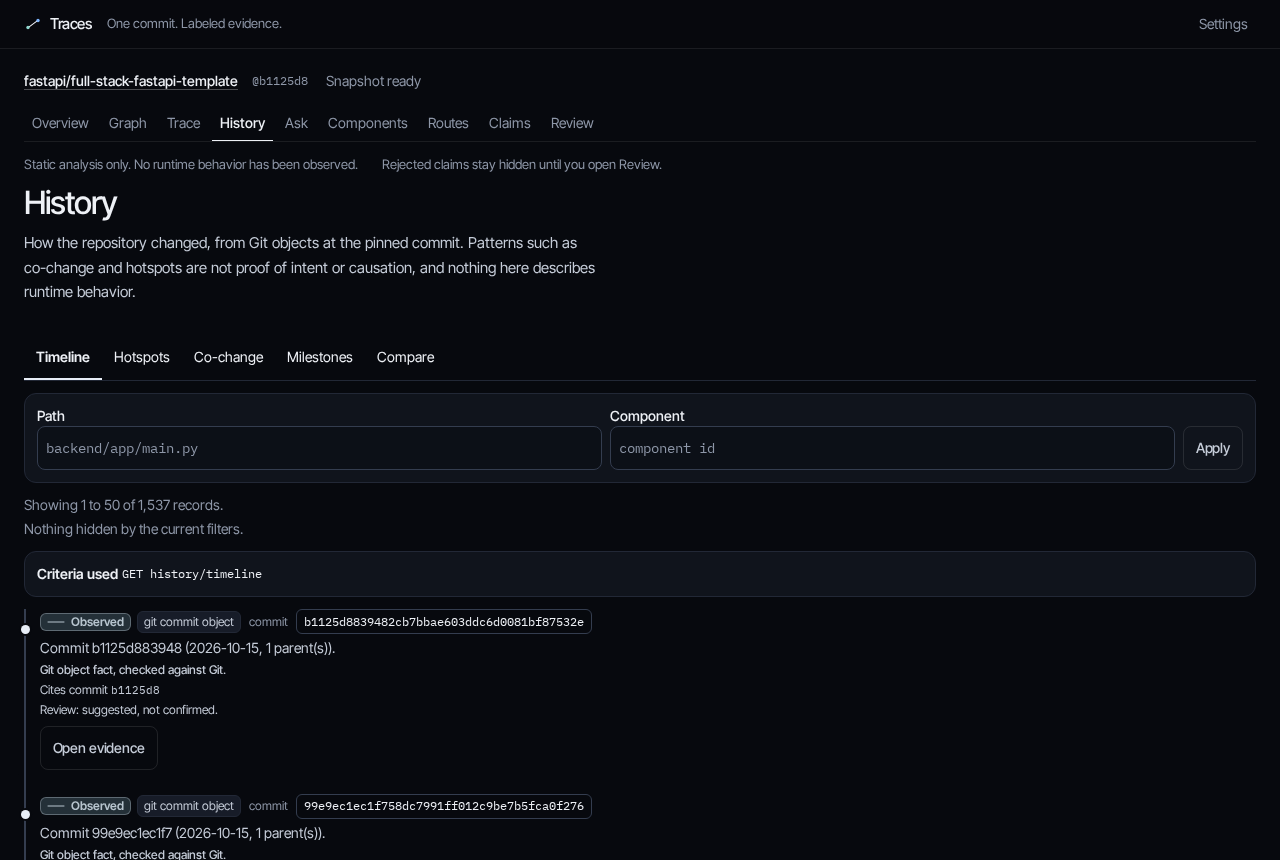
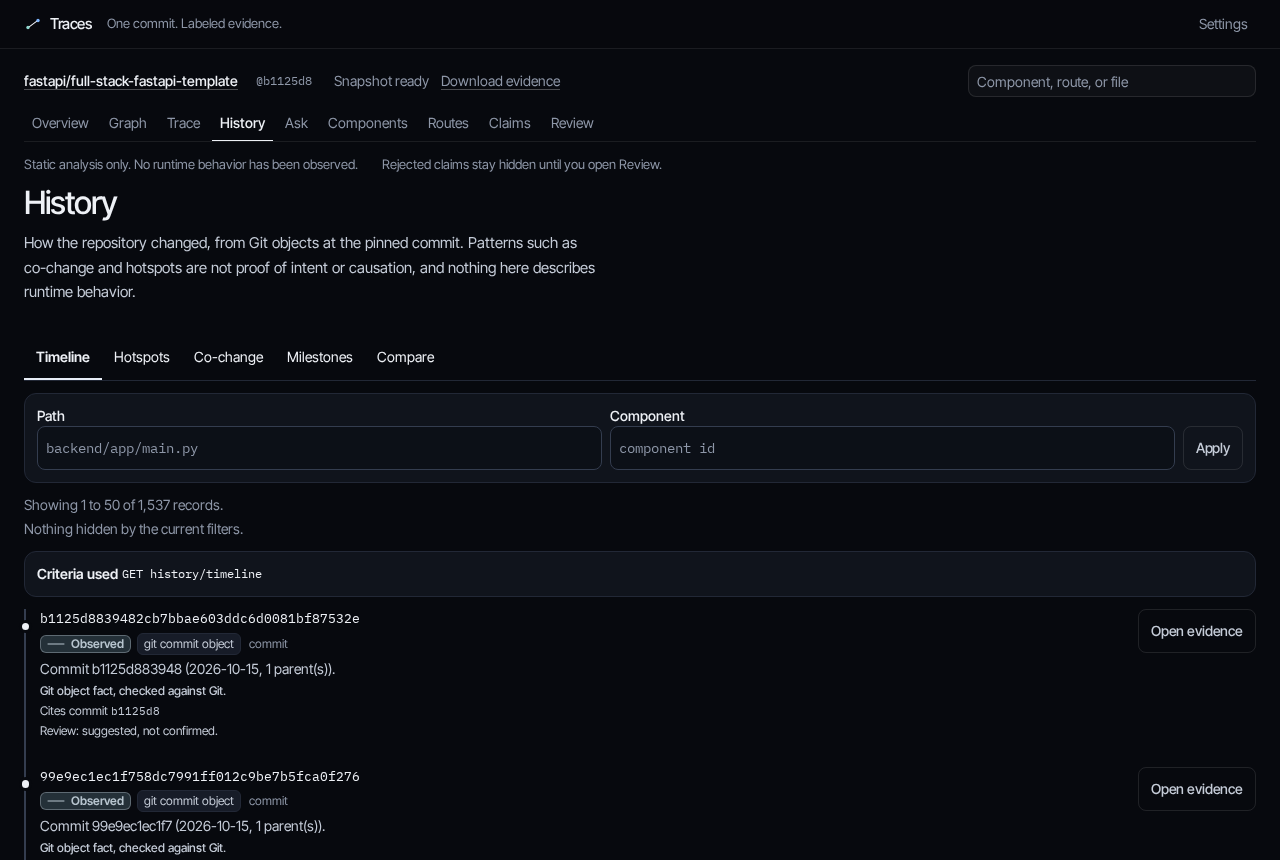
Open a trace from a recorded route, and read history as a spine.
The trace page lists stored routes before the symbol form. Choosing one follows that handler and does not fill missing steps. Timeline records sit on a line, and co-change shows how often two paths changed together.

diff --git a/web/src/features/trace/TracePage.tsx b/web/src/features/trace/TracePage.tsx
@@ -1,7 +1,7 @@
 import { useQuery } from "@tanstack/react-query";
 import { useId, useState, type FormEvent } from "react";
-import { useParams, useSearchParams } from "react-router-dom";
-import { api } from "../../api/client";
+import { Link, useParams, useSearchParams } from "react-router-dom";
+import { api, type RouteItem } from "../../api/client";
 import { useCapability } from "../../api/queries";
 import { snapshotBase } from "../../app/nav";
 import { Button, ErrorState, Loading, PageHeader } from "../../ui/States";
@@ -43,6 +43,7 @@ export function TracePage() {
         </p>
       ) : null}
       {from ? null : <UserFlow repoId={repoId} sha={sha} onEvidence={setClaim} />}
+      {from ? null : <RecordedStarts repoId={repoId} sha={sha} />}
       <form onSubmit={submit} className="mb-4 grid gap-3 rounded-lg border border-line bg-surface p-3 sm:grid-cols-[1fr_1fr_auto] sm:items-end">
         <div className="flex flex-col">
           <label htmlFor={ids.f} className="text-sm font-medium">
@@ -70,4 +71,38 @@ export function TracePage() {
       <EvidenceDrawer repoId={repoId} sha={sha} claimId={claim} onClose={() => setClaim(null)} />
     </>
   );
+}
+
+function RecordedStarts({ repoId, sha }: { repoId: string; sha: string }) {
+  const routes = useQuery({ queryKey: ["view", "routes", repoId, sha], queryFn: () => api.routes(repoId, sha) });
+  const base = snapshotBase(repoId, sha);
+  const starts = (routes.data ?? []).filter((r) => r.handler_symbol && r.method !== "UNKNOWN" && r.method !== "USE");
+  if (!starts.length) return null;
+  const shown = starts.slice(0, 12);
+  return (
+    <section className="mb-5" aria-label="Recorded routes you can trace">
+      <h2 className="text-sm font-medium tracking-[-0.02em]">Start from a recorded route</h2>
+      <p className="mt-1 max-w-2xl text-[13px] text-muted">Each row is a route this snapshot stored. Tracing follows that handler. It does not fill in steps that were not recorded.</p>
+      <ul className="mt-3 border-t border-white/10">
+        {shown.map((r) => (
+          <li key={routeKey(r)}>
+            <Link to={`${base}/trace?from=${encodeURIComponent(r.handler_symbol!)}`} className="flex min-h-11 items-center gap-3 border-b border-white/8 py-2 text-ink no-underline hover:no-underline">
+              <span className="w-14 shrink-0 font-mono text-[12px] text-verified">{r.method}</span>
+              <span className="min-w-0 flex-1 truncate font-mono text-[13px]">{r.path || "(path not recorded)"}</span>
+              <span className="shrink-0 text-[12px] text-muted">Trace</span>
+            </Link>
+          </li>
+        ))}
+      </ul>
+      {starts.length > shown.length ? (
+        <p className="mt-2 text-xs text-muted">
+          {starts.length - shown.length} more routes are on the <Link to={`${base}/routes`}>routes page</Link>.
+        </p>
+      ) : null}
+    </section>
+  );
+}
+
+function routeKey(r: RouteItem) {
+  return `${r.claim_id ?? r.path}-${r.method}-${r.handler_symbol ?? ""}`;
 }

diff --git a/web/src/features/history/HistoryItems.tsx b/web/src/features/history/HistoryItems.tsx
@@ -52,21 +52,24 @@ export function HistoryItem({ item, x, onEvidence, children, eyebrow }: { item: 
   const note = historyNote(item.class, item.status);
   const who = (item.from_symbol ?? "").replace(/^(file|component|commit|dep|repo)::/, "");
   return (
-    <li className="flex flex-col gap-1 pb-3" data-testid="history-item" data-class={item.class}>
-      {eyebrow}
-      <span className="flex flex-wrap items-center gap-2">
-        <StatusChip status={item.status} label={item.label} flags={item.flags} qualifier={item.qualifier} context={item.status === "rejected" ? "reviewer" : "default"} />
-        {item.kind ? <span className="text-xs text-muted">{item.kind.replace(/_/g, " ")}</span> : null}
-        {who ? <span className="history-pill">{who}</span> : null}
-      </span>
+    <li className="flex flex-col gap-1 pb-4" data-testid="history-item" data-class={item.class}>
+      <div className="flex items-start justify-between gap-3">
+        <div className="min-w-0">
+          {eyebrow ?? (who ? <p className="truncate font-mono text-[13px] text-ink">{who}</p> : null)}
+          <span className="mt-1 flex flex-wrap items-center gap-2">
+            <StatusChip status={item.status} label={item.label} flags={item.flags} qualifier={item.qualifier} context={item.status === "rejected" ? "reviewer" : "default"} />
+            {item.kind ? <span className="text-xs text-muted">{item.kind.replace(/_/g, " ")}</span> : null}
+          </span>
+        </div>
+        <Button className="shrink-0" onClick={() => onEvidence(item.claim_id)}>
+          Open evidence
+        </Button>
+      </div>
       <p className="break-words text-sm text-ink-2">{item.statement}</p>
       {note ? <p className="text-xs font-medium text-ink-2">{note}</p> : null}
       <Commits x={x} />
       <ReviewState x={x} />
       {children}
-      <Button className="mt-1 self-start" onClick={() => onEvidence(item.claim_id)}>
-        Open evidence
-      </Button>
     </li>
   );
 }

diff --git a/web/src/features/history/HistoryPage.tsx b/web/src/features/history/HistoryPage.tsx
@@ -205,6 +205,18 @@ export function cochangeText(i: ClaimSummary, x: HistoryExtras | undefined): str
   return i.qualifier ?? "count not reported";
 }
 
+function Together({ x }: { x: HistoryExtras | undefined }) {
+  const support = metric(x, "support");
+  const union = metric(x, "union_commits");
+  if (support === null || union === null || union <= 0) return null;
+  const pct = Math.max(0, Math.min(100, (support / union) * 100));
+  return (
+    <span className="mt-1 block h-1.5 max-w-xs overflow-hidden rounded-full bg-white/10" aria-hidden="true">
+      <span className="block h-1.5 rounded-full bg-observed" style={{ width: `${pct}%` }} />
+    </span>
+  );
+}
+
 function Cochange({ repoId, sha, onEvidence }: PanelProps) {
   const [sp, set] = useParam();
   const level = sp.get("level") === "component" ? "component" : "file";
@@ -263,6 +275,7 @@ function Cochange({ repoId, sha, onEvidence }: PanelProps) {
                       <p className="text-xs" data-testid="cochange-text">
                         {cochangeText(i, recs.get(i.claim_id))}. History pattern.
                       </p>
+                      <Together x={recs.get(i.claim_id)} />
                     </HistoryItem>
                   );
                 })}

diff --git a/web/src/styles.css b/web/src/styles.css
@@ -367,13 +367,13 @@
 .history-spine > li::before {
   content: "";
   position: absolute;
-  left: calc(-0.85rem - 5px);
-  top: 1rem;
-  width: 0.55rem;
-  height: 0.55rem;
+  left: calc(-0.85rem - 4px);
+  top: 0.85rem;
+  width: 0.45rem;
+  height: 0.45rem;
   border-radius: 999px;
-  background: var(--color-accent);
-  box-shadow: 0 0 0 2px var(--color-canvas);
+  background: var(--color-ink);
+  box-shadow: 0 0 0 3px var(--color-canvas);
 }
 
 .history-pair {

diff --git a/docs/acceptance/WALKTHROUGH.md b/docs/acceptance/WALKTHROUGH.md
@@ -24,12 +24,12 @@ Desktop shots are 1280×860. Phone shots are 390×844.
 ## What you see
 
 1. **Home.** The URL field, then the repositories already indexed. [Desktop](home-desktop.png) · [Phone](home-phone.png)
-2. **Overview.** The first thing on the page is the architecture, with the strongest recorded links beside it. Find, in the snapshot header, searches stored components, routes, files, and handlers. A match opens on the map, in source, or as a question the explainer can route. Components sit in columns by stored layer. A column title names the layer. A line between neighboring columns is a count of relationships on this page, drawn with the weakest status in that pair. Longer links are not drawn across other columns until you select a component, or choose All recorded lines. They are not new claims. Select a component to see what it connects to, then open it on the graph, follow a flow, or look at history. On a wide repository the first picture is the code layers (frontend, api, backend, library, data). All layers is one click away. On a phone the map opens one layer at a time, as a list you can tap. Grouping is a stored path rule. [Desktop](overview-desktop.png) · [Phone](overview-phone.png)
+2. **Overview.** The first thing on the page is the architecture, full width. Find, in the snapshot header, searches stored components, routes, files, and handlers. A match opens on the map, in source, or as a question the explainer can route. Components sit in layer bands. A curve beside a column is a relationship inside that layer, and the number on it is a count from this page. A line between columns crosses layers. Longer links are not drawn across other columns until you select a component, or choose All recorded lines. They are not new claims. The strongest links sit under the map as bars. Select a component to see what it connects to, then open it on the graph, follow a flow, or look at history. On a wide repository the first picture is the code layers (frontend, api, backend, library, data). All layers is one click away. On a phone the map opens one layer at a time, as a list you can tap. Grouping is a stored path rule. [Desktop](overview-desktop.png) · [Phone](overview-phone.png)
 3. **Architecture graph.** The same columns, scaled so the components in this view stay inside the frame. Neighboring lines are drawn. Select one component to dim the rest and to draw the longer links that touch it. Enter expands it. On a phone the map opens one layer at a time, as a list. [Desktop](graph-desktop.png) · [Phone](graph-phone.png)
 4. **Expanded relationships.** A component with more than a handful of symbols opens as its files, with the recorded lines between those files. Select a file to emphasize its lines. Those lines are counts, not new claims. Enter opens the symbols in that file. List view still has every relationship. [Desktop](graph-expanded-desktop.png) · [Phone](graph-expanded-phone.png)
-5. **Trace.** On a wide screen the FastAPI template path is one horizontal flow, and the selected step opens underneath it. On a phone the same steps stack. A solid step is verified or observed. A dotted step is an inferred library call. A dashed step is a gap. The selected step is the panel: the items page renders AddItem, a gap stays where no edge reaches `form.handleSubmit`, two library steps stay inferred, the generated client matches `POST /api/v1/items/`, and `create_item` depends on `get_db`. The same symbols have a verified static persistence path (validate, stage, commit, reload). Nothing was executed, and no database was contacted. The rejected CRUD claim is not a step. [Desktop](trace-desktop.png) · [Phone](trace-phone.png)
+5. **Trace.** Before you type a symbol, the page lists recorded routes. Choosing one traces that handler. On a wide screen the FastAPI template path is one horizontal flow, and the selected step opens underneath it. On a phone the same steps stack. A solid step is verified or observed. A dotted step is an inferred library call. A dashed step is a gap. The selected step is the panel: the items page renders AddItem, a gap stays where no edge reaches `form.handleSubmit`, two library steps stay inferred, the generated client matches `POST /api/v1/items/`, and `create_item` depends on `get_db`. The same symbols have a verified static persistence path (validate, stage, commit, reload). Nothing was executed, and no database was contacted. The rejected CRUD claim is not a step. [Desktop](trace-desktop.png) · [Phone](trace-phone.png)
 6. **Evidence.** The `contains` claim from `Serializer` to `__init__`, with the pinned source lines. [Desktop](evidence-desktop.png) · [Phone](evidence-phone.png)
-7. **History.** The timeline is a spine of commits, not a stack of cards and not a proof of architecture. Co-change is drawn as two paths that changed together. That is a Git pattern, not a call. Criteria stay one click away, printed as stored. [Desktop](history-desktop.png) · [Phone](history-phone.png)
+7. **History.** The timeline is a spine. Each mark is one stored record, with the path or commit on the line and the statement under it. Co-change is two paths and a bar for how often they changed together. That is a Git pattern, not a call. Criteria stay one click away, printed as stored. [Desktop](history-desktop.png) · [Phone](history-phone.png)
 8. **Ask.** The page lists questions this snapshot can answer, including one stored route when the inventory has one. You can still type your own. "What does Serializer depend on?" needs no model and no key. The answer comes first. Each grounded sentence points at the file, and those files open on the graph. Interpretation and unknown stay marked. The category list stays closed until you open it. [Desktop](ask-desktop.png) · [Phone](ask-phone.png)
 
 ## What this is not
